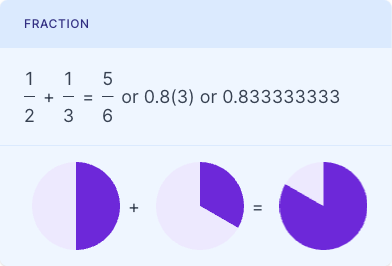
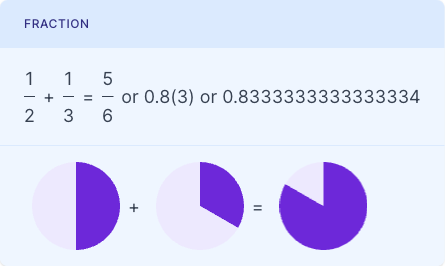
calculator changes commit

diff --git a/assets/js/all-calculators.js b/assets/js/all-calculators.js
@@ -48,6 +48,12 @@ var allCalculators = [
         "image": "../images/icon-96.png"
     },
     {
+        "title": "Grade Calculator",
+        "description": "Our weighted grade calculator shows your average and what to earn for the final grade you want. A timesaver if you don&#x27;t know how to calculate grades!",
+        "uri": "/grade-calculator/",
+        "image": "../images/icon-96.png"
+    },
+    {
         "title": "Basic Calculator",
         "description": "This online calculator performs basic mathematical operations like addition, subtraction, division, and multiplication. You can use the calculator to find percentages and taxes.",
         "uri": "/basic-calculator/",
@@ -240,6 +246,12 @@ var allCalculators = [
         "image": "../images/icon-96.png"
     },
     {
+        "title": "Slope Calculator",
+        "description": "The slope calculator finds the slope of a line using the slope formula. It can also find point coordinates, incline angle, and length if the slope and one point are known.",
+        "uri": "/slope-calculator/",
+        "image": "../images/icon-96.png"
+    },
+    {
         "title": "Variance Calculator",
         "description": "Given a discrete data set representing a sample or a population, the calculator calculates the mean, variance, and standard deviation and displays the workflow involved in the calculation.",
         "uri": "/variance-calculator/",
@@ -426,6 +438,12 @@ var allCalculators = [
         "image": "../images/icon-96.png"
     },
     {
+        "title": "Z-Score Calculator",
+        "description": "The Z-Score Calculator helps to get the z-score of a normal distribution, convert between z-score and probability, and get the probability between 2 z-scores.",
+        "uri": "/z-score-calculator/",
+        "image": "../images/icon-96.png"
+    },
+    {
         "title": "Permutation Calculator",
         "description": "Permutations calculator will help determine the number of ways to obtain an ordered subset of r elements from a set of n elements.",
         "uri": "/permutation-calculator/",
@@ -444,9 +462,21 @@ var allCalculators = [
         "image": "../images/icon-96.png"
     },
     {
+        "title": "Probability Calculator",
+        "description": "The probability calculator can find two events&#x27; probability and the normal distribution probability. Learn more about probability&#x27;s laws and calculations.",
+        "uri": "/probability-calculator/",
+        "image": "../images/icon-96.png"
+    },
+    {
         "title": "Quartile Calculator",
         "description": "The quartile calculator helps to find the first(Q1), second(Q2), and third(Q3) quartiles, interquartile range, minimum and maximum values, and range of a data set.",
         "uri": "/quartile-calculator/",
+        "image": "../images/icon-96.png"
+    },
+    {
+        "title": "Right Triangle Calculator",
+        "description": "Right triangle calculator finds missing triangle measurements. It calculates side lengths, angles, perimeter, area, altitude-to-hypotenuse, inradius, and circumradius.",
+        "uri": "/right-triangle-calculator/",
         "image": "../images/icon-96.png"
     },
     {
@@ -483,6 +513,12 @@ var allCalculators = [
         "title": "Work Hours Calculator",
         "description": "Work hours calculator helps employees accurately calculate the number of hours worked each week with settings to account for breaks, hourly rounding, and military time. ",
         "uri": "/work-hours-calculator/",
+        "image": "../images/icon-96.png"
+    },
+    {
+        "title": "Sample Size Calculator",
+        "description": "This sample size calculator enables you to calculate the minimum sample size and the margin of error. Learn about sample size, the margin of error, &amp; confidence interval.",
+        "uri": "/sample-size-calculator/",
         "image": "../images/icon-96.png"
     },
     {

diff --git a/assets/js/functions.js b/assets/js/functions.js
@@ -104,13 +104,23 @@ window.output = {
 
 // check erroneous result of expression (or if it's not string - check itself)
 // usefull in cases when erroneous values of input fields are unknown
-window.calc = (expression,scope) => {
+window.calc = (expression,scope,resultType) => {
 	let result = expression;
+	scope = scope || {};
 	if(typeof expression == 'string'){
-		result = math.evaluate(expression,scope||{}); // can throw error as well
+		result = math.evaluate(expression,scope); // can throw error as well
 	}
-	if(isNaN(result)||result.im) {
-		throw new Error(`result is ${result}.`);
+	let valid = true;
+	switch(resultType){
+		case 'positive': valid = result > 0;
+	}
+	if(isNaN(result)||result.im||!valid) {
+		const args = Object.keys(scope).map(arg=>arg+'='+scope[arg]);
+		throw new Error(
+			`result of expression ${expression} is ${result}.` 
+			+ (resultType ? `<br/>Should be ${resultType}.`:'')
+			+ (args.length != 0 ? `<br/>Args: ${args.join(', ')}.`:'')
+		);
 	}
 	return result;
 };
@@ -160,7 +170,11 @@ window.input = {
 				error = message.toString();
 			}
 			// default message
-			message = `Value${Array.isArray(inputId)?'s':` "${this.get(inputId).value}"`} of "${inputId}" ${Array.isArray(inputId)?'are':'is'} invalid.<br/>${error}`;
+			if(Array.isArray(inputId) && inputId.length == 0){
+				message = `${error}`;
+			} else {
+				message = `Value${Array.isArray(inputId)?'s':` "${this.get(inputId).value}"`} of "${inputId}" ${Array.isArray(inputId)?'are':'is'} invalid.<br/>${error}`;
+			}
 		}
 		return this.error(inputId, message, true);
 	},

diff --git a/index.html b/index.html
@@ -118,7 +118,7 @@
 			<p class="result-text text-center" id="resultNum">5</p>
 			<p class="result-text text-center" id="resultDenom">6</p>
 		</div>
-		<p class="result-text" id="resultDecimal">or 0.8(3) or 0.833333333</p>
+		<p class="result-text" id="resultDecimal">or 0.8(3) or 0.8333333333333334</p>
 	</div>
 	<div class="table-cell table-cell--fraction row">
 		<p class="result-text" id="aWholeChart"></p>
